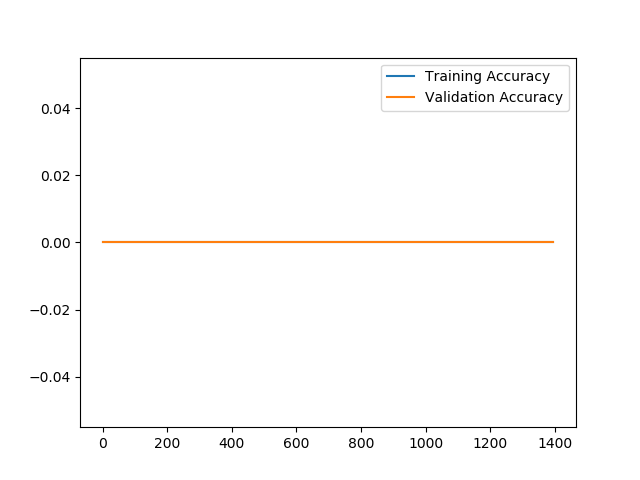
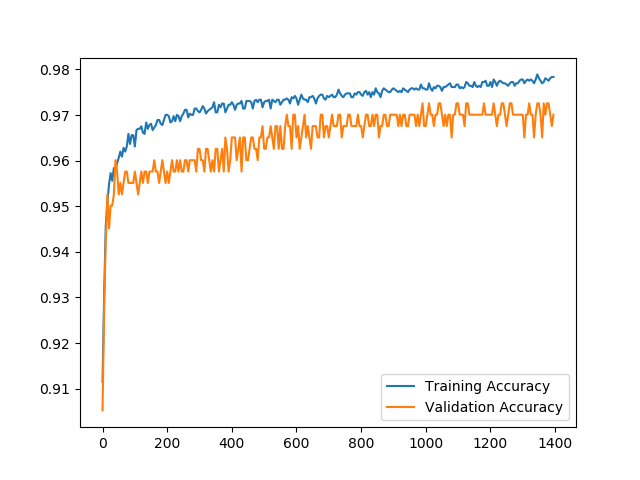
task2c

diff --git a/TDT4265-StarterCode-master/assignment1/task2.py b/TDT4265-StarterCode-master/assignment1/task2.py
@@ -14,8 +14,20 @@ def calculate_accuracy(X: np.ndarray, targets: np.ndarray, model: BinaryModel) -
     Returns:
         Accuracy (float)
     """
+    number_of_predictions = X.shape[0]
+    number_of_rights = 0
+    y_hat = model.forward(X)
+
+    for index in range (0, number_of_predictions):
+        if y_hat[index] >= 0.5:
+            y_hat[index] = 1
+        else: 
+            y_hat[index] = 0
+
+        if y_hat[index] == targets[index]:
+            number_of_rights += 1
     # Task 2c
-    accuracy = 0.0
+    accuracy = number_of_rights/number_of_predictions
     return accuracy
 
 
